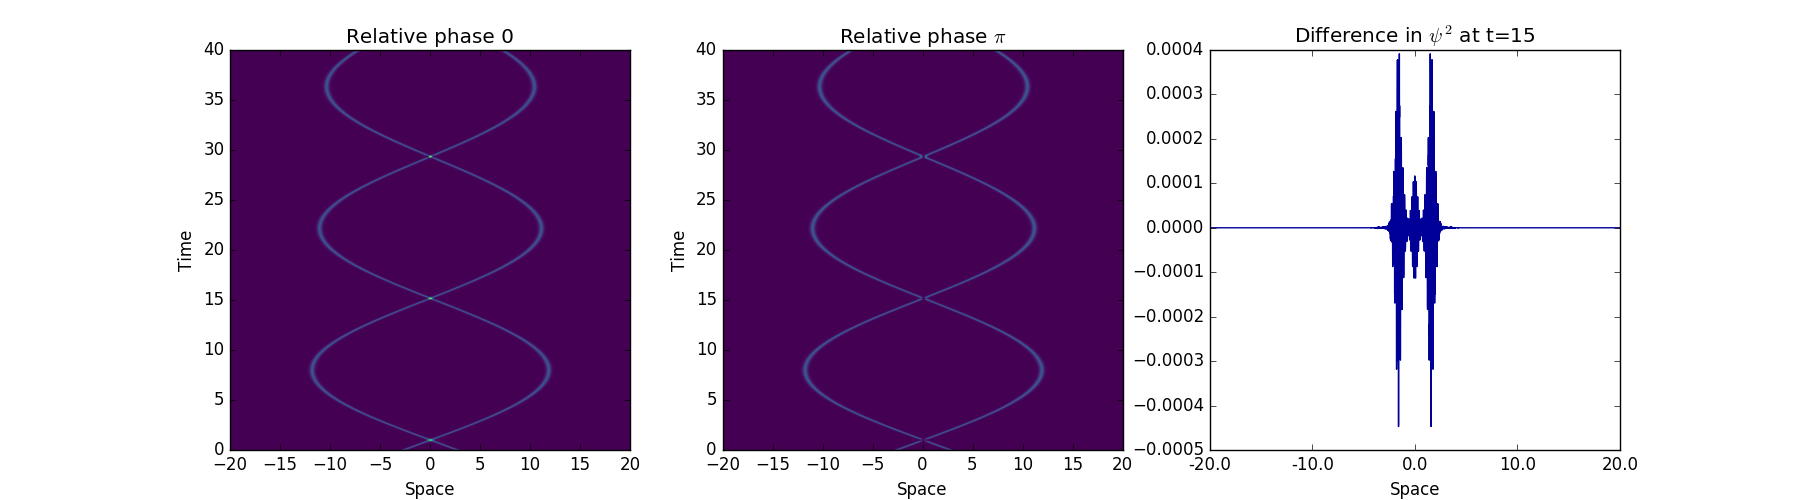
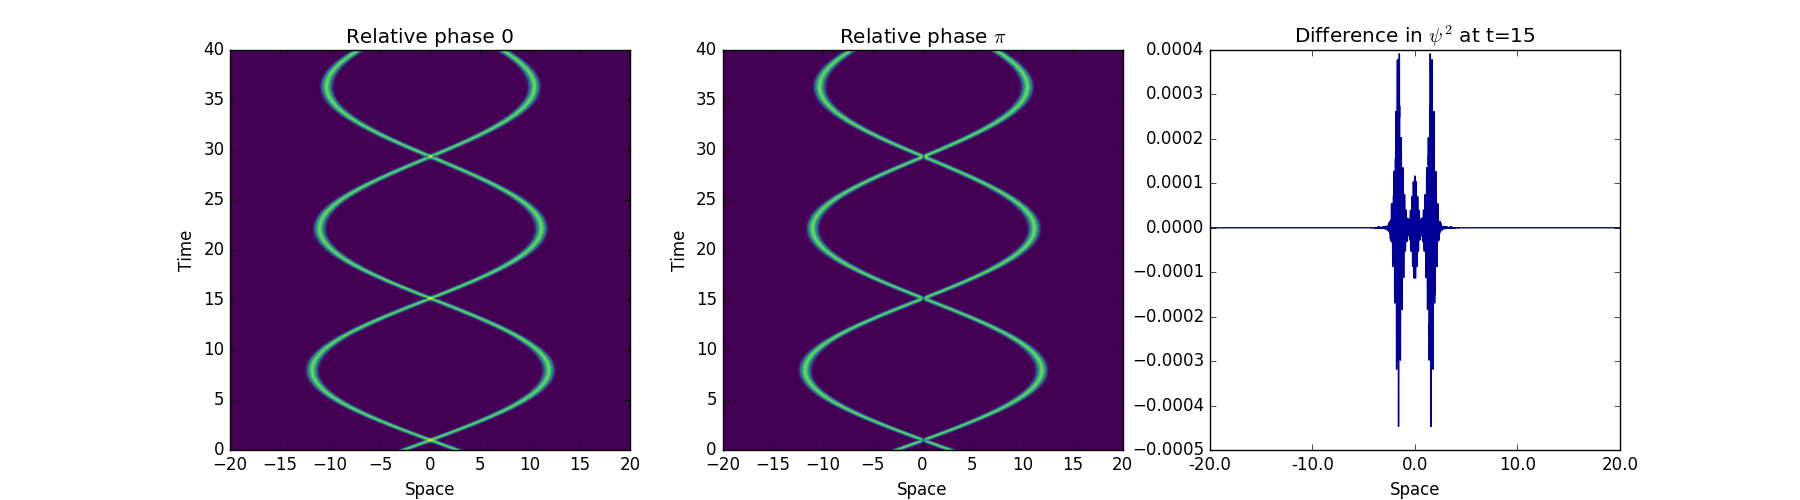
Improvements

diff --git a/extension-v4-repeated.py b/extension-v4-repeated.py
@@ -7,6 +7,7 @@ Version 5
 from __future__ import division
 import numpy as np
 import matplotlib.pyplot as pyplot
+import matplotlib.colors as colors 
 
 ############ FUNCTIONS #############
 
@@ -82,7 +83,8 @@ def accuracy_test(g_test,t):
 
 ######### TESTS #########
 
-family_param = 3
+g = -12
+family_param = -g/4
 
 rel_phase1 = 0
 rel_phase2 = np.pi
@@ -97,8 +99,8 @@ V = 1/2 * mws * xs**2
 
 velocity = 20 #L/2 originally 
 
-harmPot = schrodinger_time_evolution(two_solitons(-4,4,velocity,-velocity,0,rel_phase1,family_param), V, -4*family_param) 
-harmPotPi = schrodinger_time_evolution(two_solitons(-4,4,velocity,-velocity,0,rel_phase2,family_param), V, -4*family_param) 
+harmPot = schrodinger_time_evolution(two_solitons(-4,4,velocity,-velocity,0,rel_phase1,family_param), V, g) 
+harmPotPi = schrodinger_time_evolution(two_solitons(-4,4,velocity,-velocity,0,rel_phase2,family_param), V, g) 
 
 difference = harmPot - harmPotPi
 
@@ -107,14 +109,16 @@ difference = harmPot - harmPotPi
 pyplot.figure(figsize=(18,5))
 #pyplot.suptitle("Weak Harmonic Confining Potential")
 
+
+
 pyplot.subplot(131)
-pyplot.imshow(np.transpose(harmPot), extent=(-20,20,0,40), origin='lower', cmap='viridis') 
+pyplot.imshow(np.transpose(harmPot), extent=(-20,20,0,40), origin='lower', cmap='viridis', norm=colors.SymLogNorm(linthresh=0.05, vmin=harmPotPi.min(), vmax=harmPotPi.max())) 
 pyplot.xlabel("Space")
 pyplot.ylabel("Time")
 pyplot.title("Relative phase {}".format(rel_phase1))
 
 pyplot.subplot(132)
-pyplot.imshow(np.transpose(harmPotPi), extent=(-20,20,0,40), origin='lower', cmap='viridis') 
+pyplot.imshow(np.transpose(harmPotPi), extent=(-20,20,0,40), origin='lower', cmap='viridis', norm=colors.SymLogNorm(linthresh=0.05, vmin=harmPotPi.min(), vmax=harmPotPi.max())) 
 pyplot.xlabel("Space")
 pyplot.ylabel("Time")
 #pyplot.title("Relative phase {}".format(rel_phase2))

diff --git a/milestone-v8.py b/milestone-v8.py
@@ -87,7 +87,7 @@ print "Norm is conserved to {} % accuracy".format(acc)
 #to compare to analytic, use gaussian first. later, sech soliton and nonlinear. 
 
 pyplot.figure(figsize=(10,6)) 
-pyplot.suptitle("The effect of inter-atom interactions " + r'$g |\psi|^2$' + " on a soliton model", fontsize=16)	
+#pyplot.suptitle("The effect of inter-atom interactions " + r'$g |\psi|^2$' + " on a soliton model", fontsize=16)	
 
 pyplot.subplot(121)
 pyplot.imshow(np.transpose(testpsi), extent=(-10,10,0,20), origin='lower', cmap='viridis') 
@@ -103,5 +103,3 @@ pyplot.title(r'$g= {}$'.format(g_test2))
 
 pyplot.savefig('milestonepic.png')
 pyplot.show()
-# colorbar(mod(psi_whichever)^2, (0,1), black and white) #show probability as black/white gradient from 0 to 1
-
